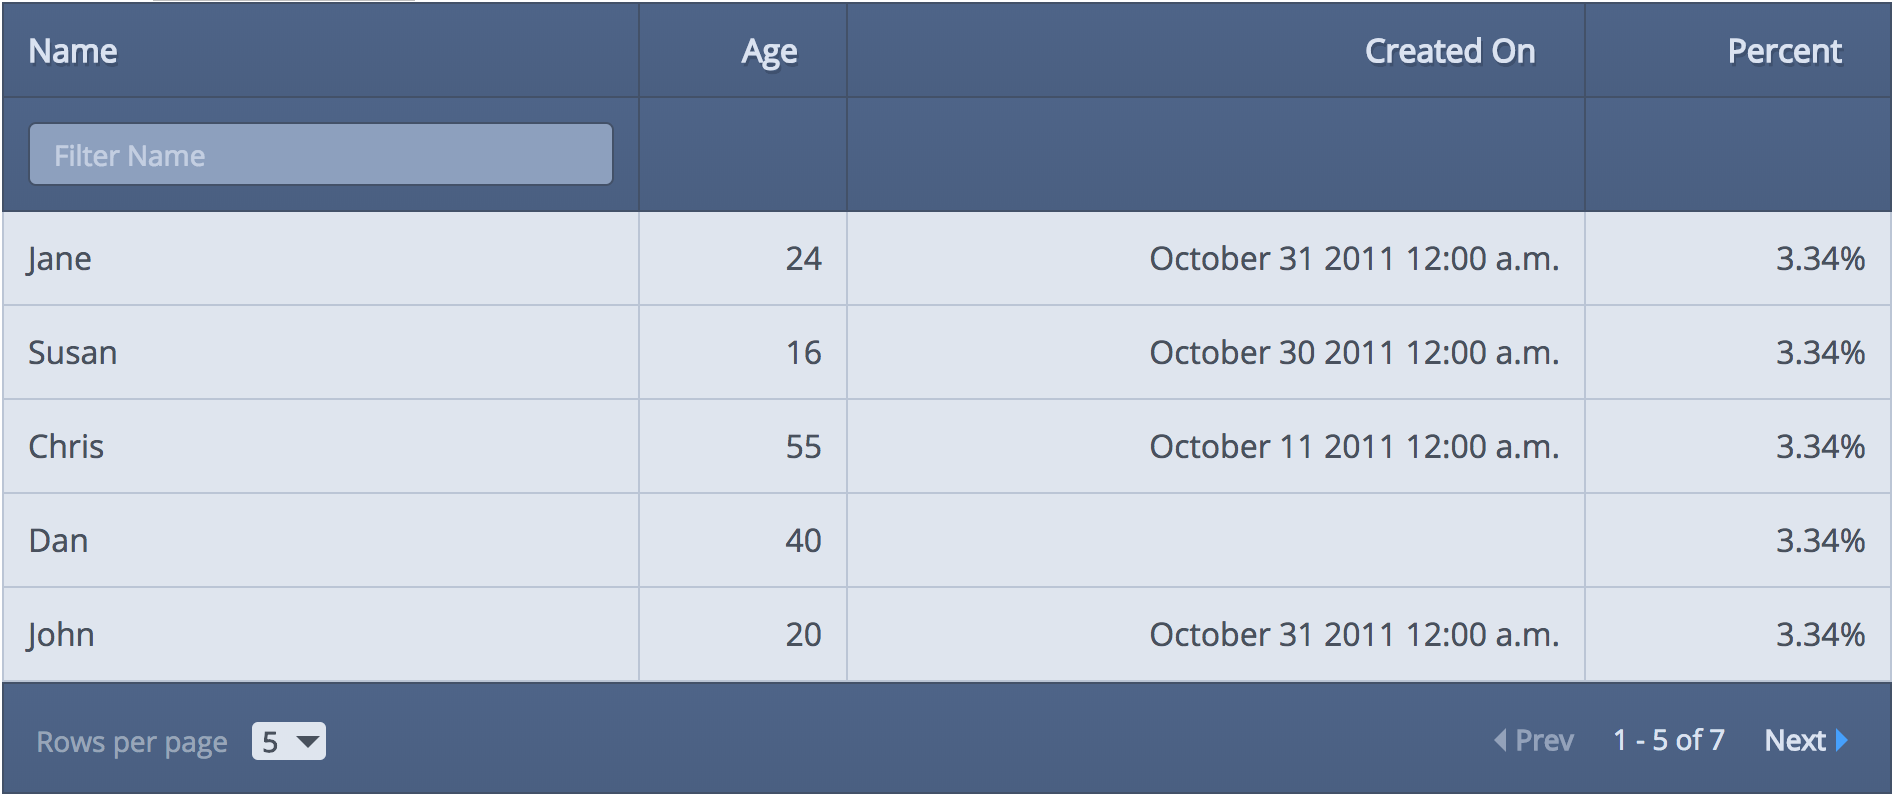
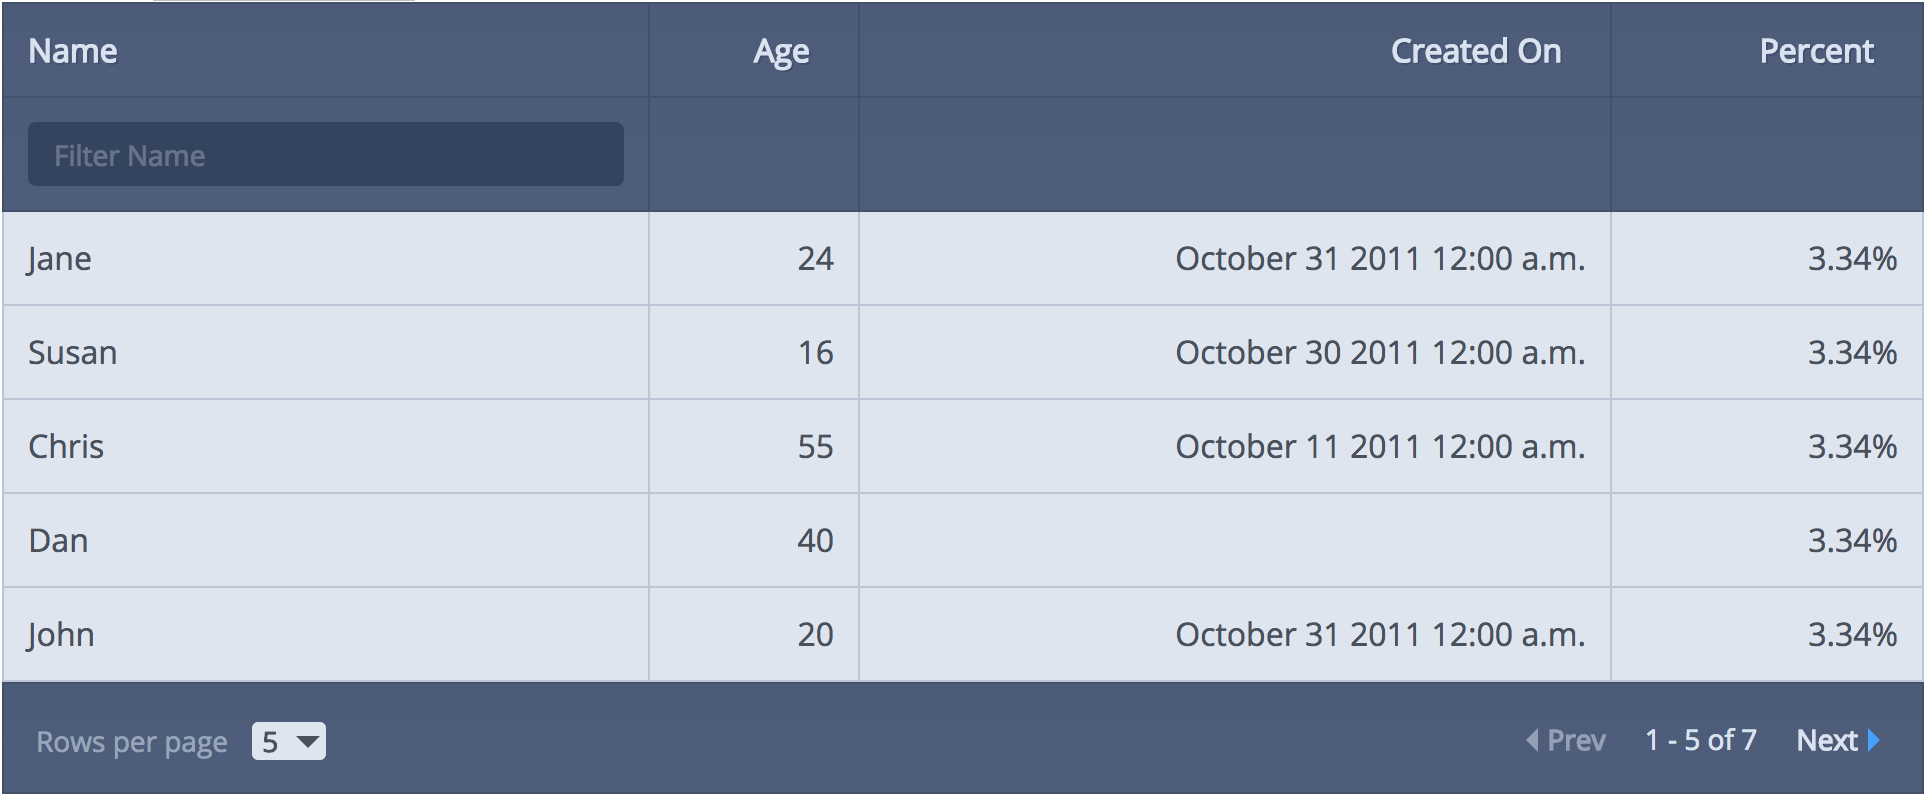
style update

diff --git a/src/styles/black-rhino/black-rhino.scss b/src/styles/black-rhino/black-rhino.scss
@@ -24,7 +24,7 @@
   }
   thead th{
     color: $text-color;
-    text-shadow: 1px 2px $text-shadow-color;
+    text-shadow: 1px 1px $text-shadow-color;
     border-bottom:  1px solid $border-color;
     background: linear-gradient($thead-bg-color-1, $thead-bg-color-2);
     &.sorting-asc, &.sorting-desc {
@@ -44,11 +44,11 @@
   //input
   .vgt-input, .vgt-select{
     color: $text-color;
-    background-color: lighten($thead-bg-color-2, 25%);
+    background-color: $input-bg;
     border: 1px solid $input-border-color;
     &::placeholder { /* Chrome, Firefox, Opera, Safari 10.1+ */
       color: $text-color;
-      opacity: 0.7; /* Firefox */
+      opacity: 0.3; /* Firefox */
     }
   }
 }

diff --git a/src/styles/black-rhino/_overrides.scss b/src/styles/black-rhino/_overrides.scss
@@ -1,5 +1,5 @@
-$thead-bg-color-1: lighten(#2C394F, 18%);
-$thead-bg-color-2: lighten(#2C394F, 16%);
+$thead-bg-color-1: #4c5c79;
+$thead-bg-color-2: #4e5d7c;
 
 $text-color: #dae2f0;
 $text-color-td: rgb(73, 81, 94);
@@ -8,7 +8,9 @@ $text-shadow-color: lighten(#2C394F, 10%);
 $secondary-text-color: rgb(152, 165, 185) ;
 $border-color: #435169;
 $border-color-td: #bbc5d6;
-$input-border-color: $border-color;
+
+$input-border-color: transparent;
+$input-bg: #34445f;
 
 $table-bg: #dfe5ee;
-$highlight-color: #445168;
+$highlight-color:#fff;

diff --git a/dev/App.vue b/dev/App.vue
@@ -7,6 +7,7 @@
       :columns="columns"
       :rows="rows"
       theme="black-rhino"
+      @on-row-click="onColumnFilter"
       :pagination-options="{ enabled: true, perPage: 5}"
       :search-options="{
         enabled: false,
